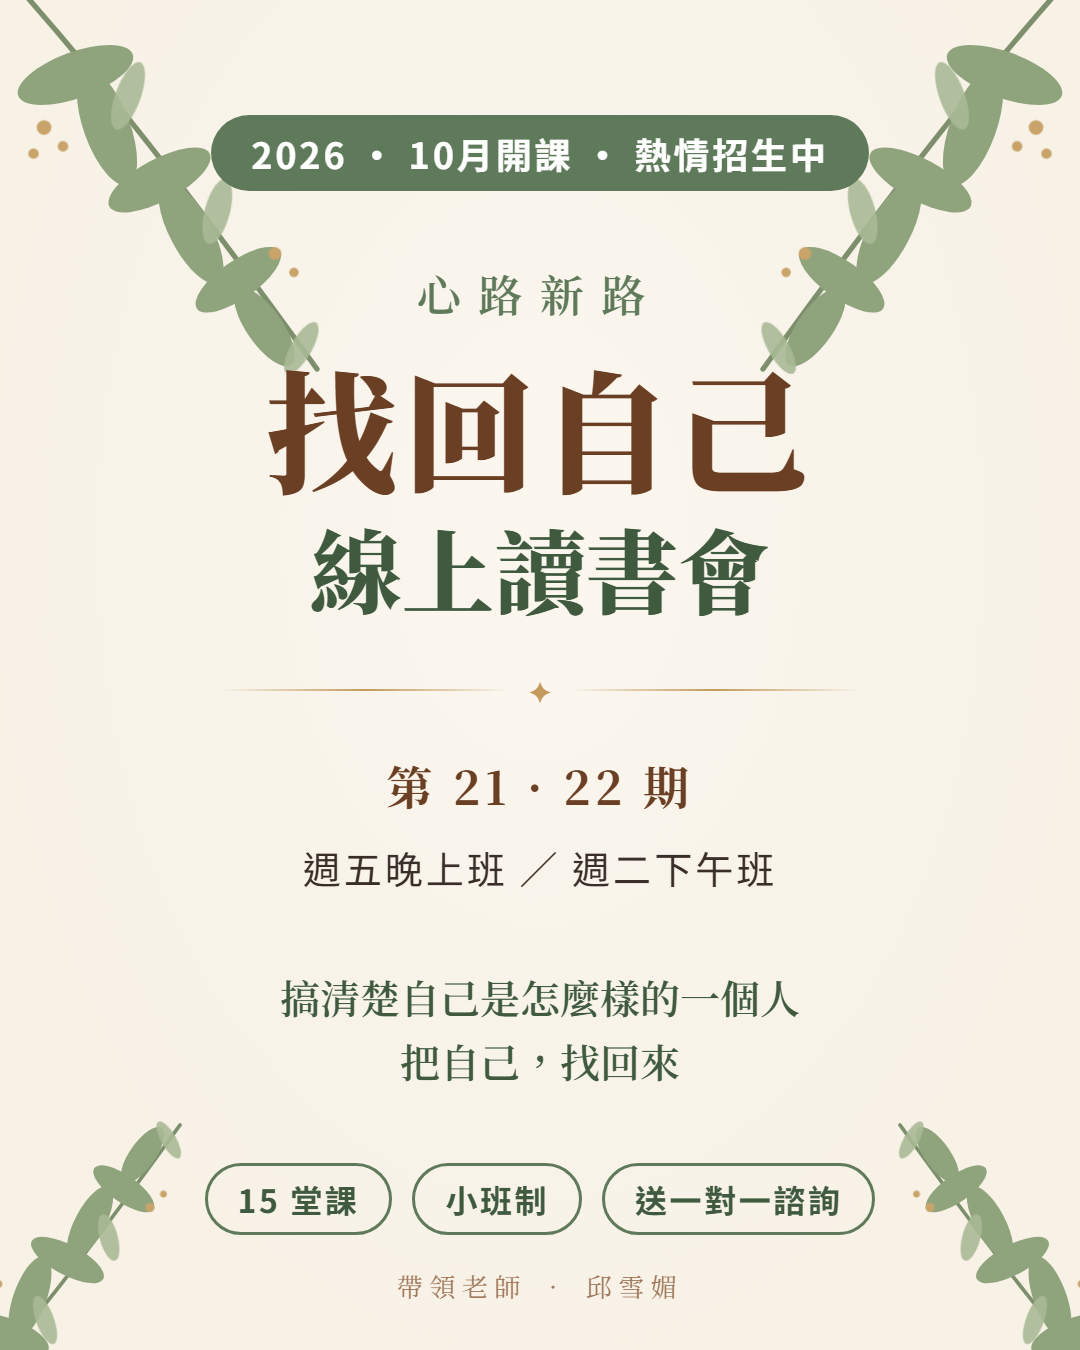
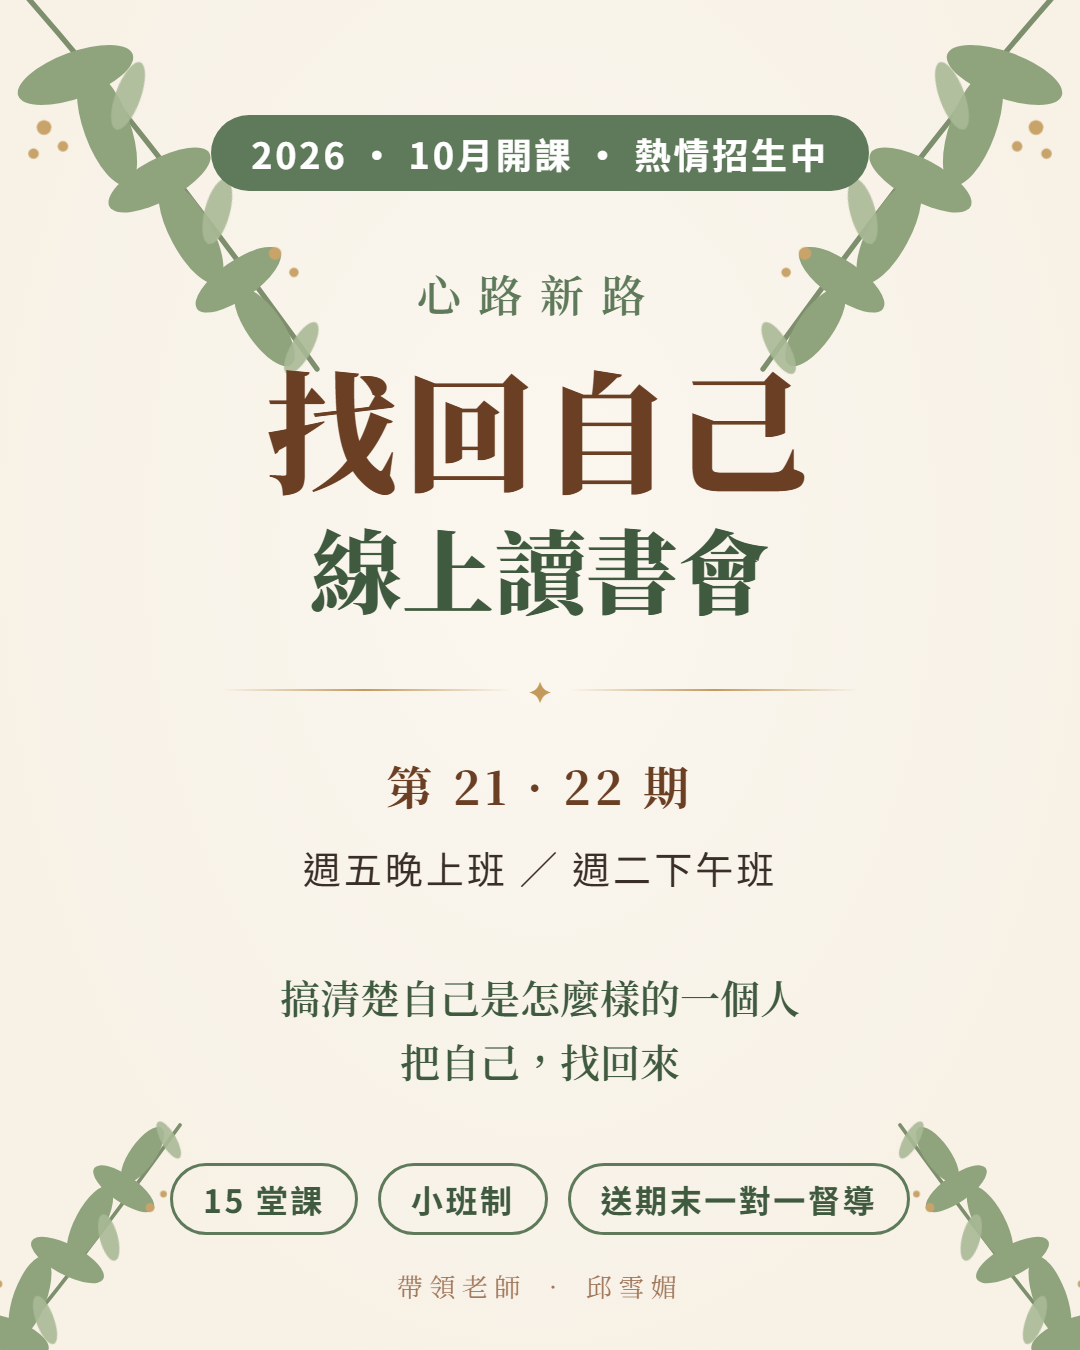
Rename reading group gift to 期末報告一對一督導

Changed region(s): [[0.1528, 0.84, 0.8556, 0.9333]]

diff --git a/index.html b/index.html
@@ -1822,7 +1822,7 @@
             elder_power: "【樂齡成長課程 ── 肌力課程】\n\n專為長輩量身設計的專業、安全身體活動引導，有效預防肌少症，維持身體的豐沛活力與日常功能防護防禦力資料。",
             elder_hobby: "【樂齡成長課程 ── 興趣小組與生活美學】\n\n多元豐富的社交活動、生活美學小組與讀書分享，陪伴長者擴展社交圈，快樂無憂地建立第二精彩人生詳細介紹。",
             
-            bible_info: "【心路新路「找回自己」線上讀書會 ── 最新當期招生訊息】\n\n📖 2026年十月份週間白天班、晚上班　第21、22期熱情招生中\n\n如果你需要搞清楚自己到底是怎麼樣的一個人\n如果你需要把自己找回來\n如果你需要為目前的生命挑戰找到新的方向及力量\n如果你需要真誠地被聆聽\n如果你需要了解跟你不一樣的人到底是怎麼想的\n\n你將會在這個CP值超高的讀書會經歷超乎想像的豐富、收穫、支持以及愛。課程最後，每位同學將獲贈一堂100分鐘一對一諮詢，將生命歷程做統整性的分析歸納整理。\n\n【上課時間】\n2026年10月開始，一堂2.5小時，共十五堂。請假可看回放影片補課。\n晚上班：每週五晚上7:00-9:30（已確定開班）。\n白天班：每週二下午1:30-4:00（已確定開班）。\n其他時段若後續報名人數足夠，也會考慮開班。\n\n有意願上課者請掃描QR code進入讀書會群組詢問相關問題，並填寫報名表單。歡迎老同學回來複習，費用自由奉獻！\n\n【上課地點】線上讀書會\n\n【費用】9,000元，共15堂課（一堂2.5小時）。講義印製及寄送費用，實支實付。如有困難一次繳清全期費用，可分期；確定開班、時間可配合後再繳費。\n\n【帶領老師：邱雪媚】\n學歷：台北市立師院幼教系畢業、衛理神學研究院教牧諮商碩士、道學碩士畢業，現為衛理神學研究院教牧學博士研究生。\n現任：心路新路個人成長中心工作室負責人、教牧協談學會教牧協談師、拿撒勒神學院教牧輔導老師，常應邀至社區、國小進行親職講座、教師研習。\n曾任：宇宙光關懷輔導中心教牧輔導員、台灣教牧協談學會秘書長。\n合作過單位：仁愛國小、明倫國小、桃園中壢興仁國小、國語實小、彭福國小、佳音幼兒園、純得幼兒園、葫蘆幼兒園、安坑國小、蘆洲國小、八里國小、牡丹國小、1919救助協會、伊甸基金會、新竹人本基金會、新竹世界展望會、樂福社區關懷協會、勵友中心、伯大尼兒少家園⋯等。\n專長：教牧協談（成人、兒童、家庭協談、婚姻協談、婚前協談）、婚姻講座、親職訓練及講座、兒童師資訓練、三一原型尋見真我讀書會、同理心訓練、基本協談技巧。\n\n【課程介紹】\n閱讀書籍：《從聖經中尋見真我》，作者林瑜琳，使徒出版社出版，請於讀書會開始前自行購買。\n博客來：https://shop.campus.org.tw/ProductDetails.aspx?ProductID=000523400\n\n小班制：每班招收上限新生十位，以填單順序錄取，確保每個人都有足夠的分享時間。\n\n許多人對心理成長很有興趣，也上了很多課程，卻不知如何運用。您需要的是可以帶著您細細整理自己生命經驗的讀書會！隨著讀書會進行，您將逐步完成生命歷程的書寫，也將擁有從神而來的新眼光，看見新的方向。\n\n有興趣進一步學習關懷技巧者，均須先在此讀書會完成自己生命歷程的梳理，方能參加進階課程喔！\n\n如果您有以下情況，這個讀書會就是您所需要的：\n★想要更認識自己，及明白上帝對自己生命的帶領\n★理性上知道需要接納、鼓勵孩子或配偶，但就是會看不慣其言行舉止，有意無意說出破壞關係的話\n★一直覺得自己不夠好，深受低自信、羞愧的困擾\n★希望學習有效關懷、幫助他人\n\n很多成員在過程中如釋重負、豁然開朗地說：「我現在終於知道自己為什麼會這樣了」、「我知道接下去該怎麼面對生命的問題了！」\n\n從聖經中尋見自己的生命，會讓您驚訝——自己生命的祝福、美好及力量，超過自己原本的想像。",
+            bible_info: "【心路新路「找回自己」線上讀書會 ── 最新當期招生訊息】\n\n📖 2026年十月份週間白天班、晚上班　第21、22期熱情招生中\n\n如果你需要搞清楚自己到底是怎麼樣的一個人\n如果你需要把自己找回來\n如果你需要為目前的生命挑戰找到新的方向及力量\n如果你需要真誠地被聆聽\n如果你需要了解跟你不一樣的人到底是怎麼想的\n\n你將會在這個CP值超高的讀書會經歷超乎想像的豐富、收穫、支持以及愛。課程最後，每位同學將獲贈一堂100分鐘期末報告一對一督導，將生命歷程做統整性的分析歸納整理。\n\n【上課時間】\n2026年10月開始，一堂2.5小時，共十五堂。請假可看回放影片補課。\n晚上班：每週五晚上7:00-9:30（已確定開班）。\n白天班：每週二下午1:30-4:00（已確定開班）。\n其他時段若後續報名人數足夠，也會考慮開班。\n\n有意願上課者請掃描QR code進入讀書會群組詢問相關問題，並填寫報名表單。歡迎老同學回來複習，費用自由奉獻！\n\n【上課地點】線上讀書會\n\n【費用】9,000元，共15堂課（一堂2.5小時）。講義印製及寄送費用，實支實付。如有困難一次繳清全期費用，可分期；確定開班、時間可配合後再繳費。\n\n【帶領老師：邱雪媚】\n學歷：台北市立師院幼教系畢業、衛理神學研究院教牧諮商碩士、道學碩士畢業，現為衛理神學研究院教牧學博士研究生。\n現任：心路新路個人成長中心工作室負責人、教牧協談學會教牧協談師、拿撒勒神學院教牧輔導老師，常應邀至社區、國小進行親職講座、教師研習。\n曾任：宇宙光關懷輔導中心教牧輔導員、台灣教牧協談學會秘書長。\n合作過單位：仁愛國小、明倫國小、桃園中壢興仁國小、國語實小、彭福國小、佳音幼兒園、純得幼兒園、葫蘆幼兒園、安坑國小、蘆洲國小、八里國小、牡丹國小、1919救助協會、伊甸基金會、新竹人本基金會、新竹世界展望會、樂福社區關懷協會、勵友中心、伯大尼兒少家園⋯等。\n專長：教牧協談（成人、兒童、家庭協談、婚姻協談、婚前協談）、婚姻講座、親職訓練及講座、兒童師資訓練、三一原型尋見真我讀書會、同理心訓練、基本協談技巧。\n\n【課程介紹】\n閱讀書籍：《從聖經中尋見真我》，作者林瑜琳，使徒出版社出版，請於讀書會開始前自行購買。\n博客來：https://shop.campus.org.tw/ProductDetails.aspx?ProductID=000523400\n\n小班制：每班招收上限新生十位，以填單順序錄取，確保每個人都有足夠的分享時間。\n\n許多人對心理成長很有興趣，也上了很多課程，卻不知如何運用。您需要的是可以帶著您細細整理自己生命經驗的讀書會！隨著讀書會進行，您將逐步完成生命歷程的書寫，也將擁有從神而來的新眼光，看見新的方向。\n\n有興趣進一步學習關懷技巧者，均須先在此讀書會完成自己生命歷程的梳理，方能參加進階課程喔！\n\n如果您有以下情況，這個讀書會就是您所需要的：\n★想要更認識自己，及明白上帝對自己生命的帶領\n★理性上知道需要接納、鼓勵孩子或配偶，但就是會看不慣其言行舉止，有意無意說出破壞關係的話\n★一直覺得自己不夠好，深受低自信、羞愧的困擾\n★希望學習有效關懷、幫助他人\n\n很多成員在過程中如釋重負、豁然開朗地說：「我現在終於知道自己為什麼會這樣了」、「我知道接下去該怎麼面對生命的問題了！」\n\n從聖經中尋見自己的生命，會讓您驚訝——自己生命的祝福、美好及力量，超過自己原本的想像。",
 
         };
 

diff --git a/bible-self.html b/bible-self.html
@@ -4,14 +4,14 @@
     <meta charset="UTF-8">
     <meta name="viewport" content="width=device-width, initial-scale=1.0">
     <title>第21、22期 心路新路「找回自己」線上讀書會｜2026年10月開課｜心路新路 邱雪媚</title>
-    <meta name="description" content="心路新路「找回自己」線上讀書會第21、22期，2026年10月開課。以聖經觀點帶你梳理生命經驗、認識自己、找回方向與力量。15堂小班制線上課程，晚上班每週五 19:00–21:30、白天班每週二 13:30–16:00，每人加贈100分鐘一對一諮詢。帶領老師：邱雪媚（教牧協談師）。">
+    <meta name="description" content="心路新路「找回自己」線上讀書會第21、22期，2026年10月開課。以聖經觀點帶你梳理生命經驗、認識自己、找回方向與力量。15堂小班制線上課程，晚上班每週五 19:00–21:30、白天班每週二 13:30–16:00，每人加贈100分鐘期末報告一對一督導。帶領老師：邱雪媚（教牧協談師）。">
     <meta name="keywords" content="找回自己讀書會,線上讀書會,心路新路,邱雪媚,認識自己,自我探索,生命梳理,基督徒讀書會,教牧協談,生命成長課程">
     <link rel="canonical" href="https://xinlu-may.github.io/bible-self.html">
 
     <meta property="og:type" content="website">
     <meta property="og:site_name" content="心路新路全齡關懷健康幸福導航站">
     <meta property="og:title" content="第21、22期「找回自己」線上讀書會｜2026年10月開課">
-    <meta property="og:description" content="搞清楚自己是怎麼樣的一個人，把自己找回來。15堂小班制線上讀書會，每人加贈100分鐘一對一諮詢。帶領老師：邱雪媚。">
+    <meta property="og:description" content="搞清楚自己是怎麼樣的一個人，把自己找回來。15堂小班制線上讀書會，每人加贈100分鐘期末報告一對一督導。帶領老師：邱雪媚。">
     <meta property="og:url" content="https://xinlu-may.github.io/bible-self.html">
     <meta property="og:image" content="https://xinlu-may.github.io/images/bookclub-21-22/cover.png">
     <meta property="og:image:width" content="1080">
@@ -24,7 +24,7 @@
       "@context": "https://schema.org",
       "@type": "Course",
       "name": "心路新路「找回自己」線上讀書會 第21、22期",
-      "description": "以《從聖經中尋見真我》為主要教材，帶領成員細細整理自己的生命經驗、認識自己、找回方向與力量。共15堂，每堂2.5小時，小班制線上進行，每位同學加贈一堂100分鐘一對一諮詢。",
+      "description": "以《從聖經中尋見真我》為主要教材，帶領成員細細整理自己的生命經驗、認識自己、找回方向與力量。共15堂，每堂2.5小時，小班制線上進行，每位同學加贈一堂100分鐘期末報告一對一督導。",
       "inLanguage": "zh-TW",
       "url": "https://xinlu-may.github.io/bible-self.html",
       "image": "https://xinlu-may.github.io/images/bookclub-21-22/cover.png",
@@ -205,7 +205,7 @@
                     2.《你的人生，他們六個說了算：驚嘆號決定你一生的六種物質》平安文化
                 </span>
             </div>
-            <div class="gift">🎁 每位同學獲贈一堂 100 分鐘一對一諮詢，將生命歷程做統整性的分析歸納整理。</div>
+            <div class="gift">🎁 每位同學獲贈一堂 100 分鐘期末報告一對一督導，將生命歷程做統整性的分析歸納整理。</div>
         </section>
 
         <section class="content-block">

diff --git a/events.html b/events.html
@@ -69,7 +69,7 @@
                         📅 <b>開課時間：</b>2026 年 10 月開始，共 15 堂 / 📍 <b>活動地點：</b>線上 / 👥 <b>適合對象：</b>想梳理生命故事、修復關係的成人
                     </div>
                     <p class="event-text">
-                        二十期深厚基礎的口碑王牌課程！已確定開班：週五晚上 7:00–9:30、週二下午 1:30–4:00，小班制，每位同學加贈一堂 100 分鐘一對一諮詢。雪媚老師將帶領您細細整理自己的生命經驗，在經典的光照中接納最真實的自己，找回生命喜樂的力量。
+                        二十期深厚基礎的口碑王牌課程！已確定開班：週五晚上 7:00–9:30、週二下午 1:30–4:00，小班制，每位同學加贈一堂 100 分鐘期末報告一對一督導。雪媚老師將帶領您細細整理自己的生命經驗，在經典的光照中接納最真實的自己，找回生命喜樂的力量。
                     </p>
                     <a href="bible-self.html" class="event-btn btn-green">查看詳細課程說明 與 搶先登記名額 →</a>
                 </td>
